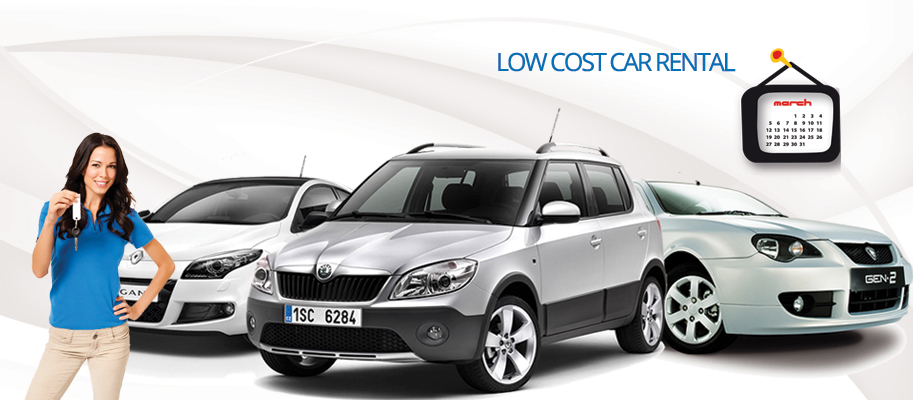
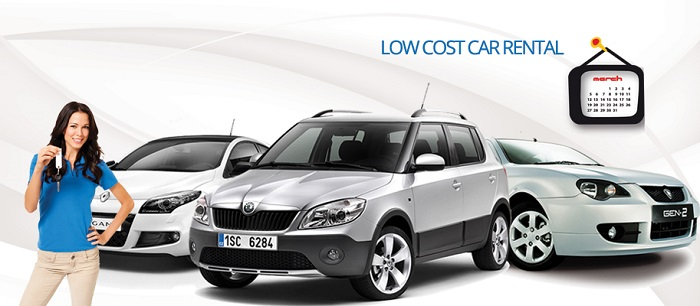
Initial commit

diff --git a/index.html b/index.html
@@ -119,7 +119,7 @@
 
         <!-- Marketing Icons Section -->
         <div class="row">
-            <div class="col-lg-12">
+            <div class="col-lg-14">
                 <h1 class="page-header">
                     Welcome to Madurai Best Cabs
                 </h1>
@@ -146,7 +146,7 @@
                 <p>Lorem ipsum dolor sit amet, consectetur adipisicing elit. Corporis, omnis doloremque non cum id reprehenderit, quisquam totam aspernatur tempora minima unde aliquid ea culpa sunt. Reiciendis quia dolorum ducimus unde.</p>
             </div>
             <div class="col-md-6">
-                <img class="img-responsive" src="imgs/banner2.jpg" alt="">
+                <img class="img-responsive" src="imgs/banner8.jpg" alt="">
             </div>
         </div>
         <!-- /.row -->
